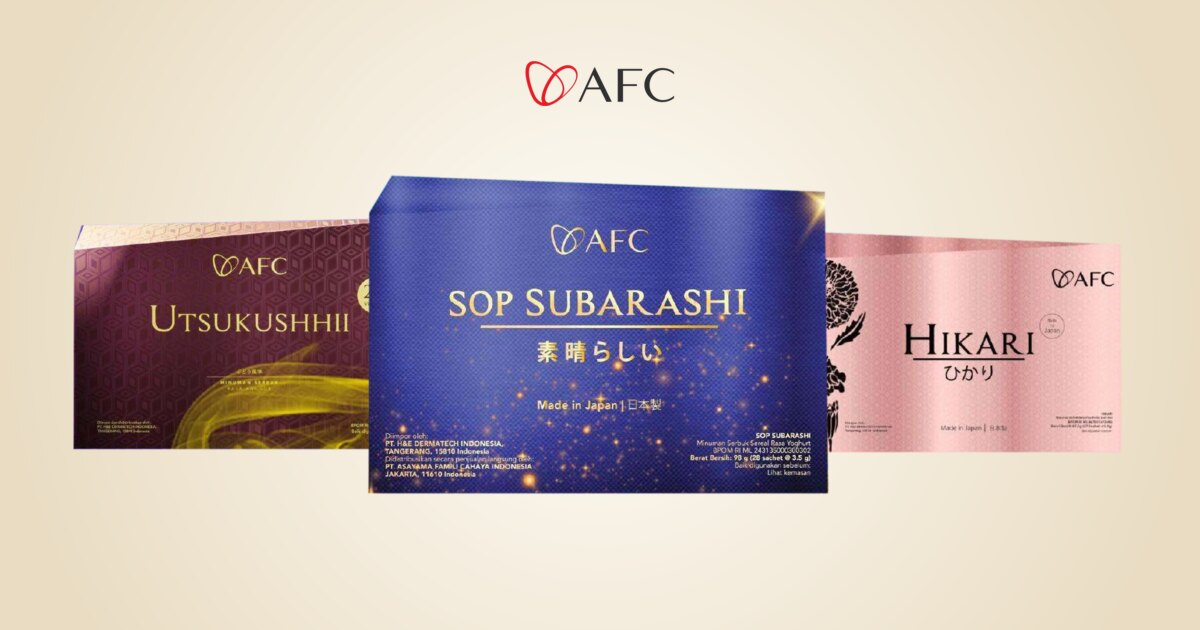
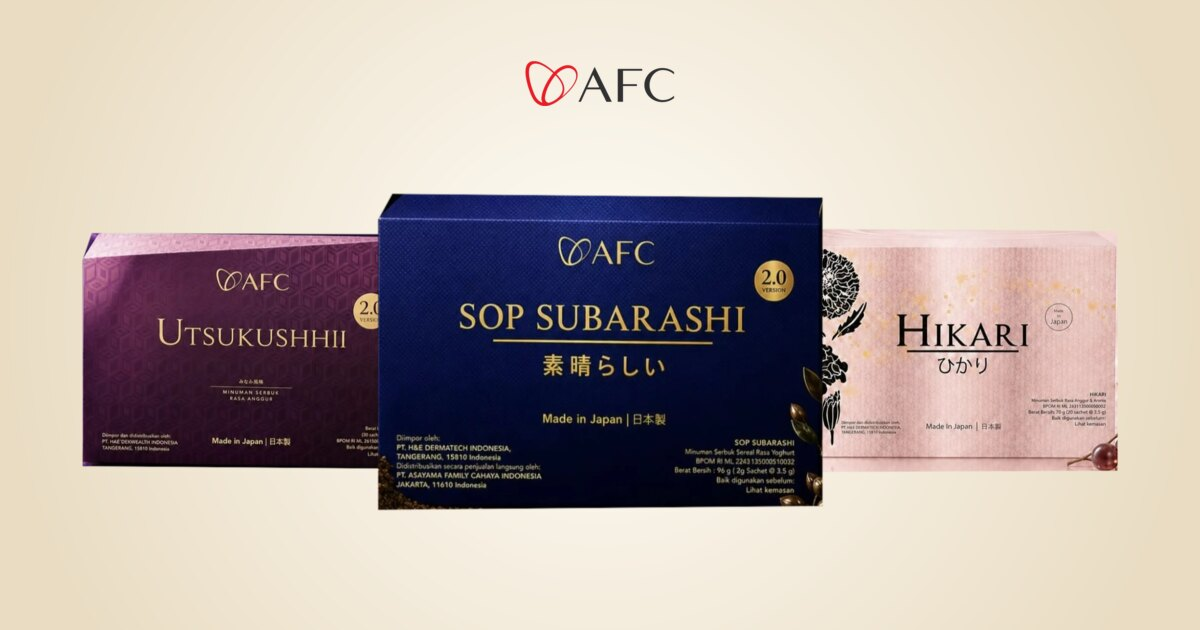
Use sharp packshots from AFC's official announcement images
Hero, product cards, story bands, product pages, recommender and
comparison now show packs cut from the official 'Harga Resmi' renders
(EDSR 2x), replacing the low-resolution packs from the PDF asset pack.

Claude-Session: https://claude.ai/code/session_014NddGPWowXmqgXB4fxXYeP

Changed region(s): [[0.0617, 0.2714, 0.9558, 0.8143]]

diff --git a/data/assets.ts b/data/assets.ts
@@ -18,15 +18,15 @@ export const ASSETS = {
   logo: { src: `${BASE}/brand/afc-logo.png`, width: 1040, height: 320, alt: 'AFC', source: 'AFC-SRC-01' },
 
   products: {
-    subarashiPack: a('products/subarashi/pack', 1340, 940, 'Kemasan SOP Subarashi', 'AFC-SRC-09'),
+    subarashiPack: a('products/subarashi/pack-official', 1410, 1040, 'Kemasan SOP Subarashi 2.0', 'AFC — pengumuman harga resmi'),
     subarashiKeyVisual: a('products/subarashi/key-visual', 1600, 900, 'Key visual SOP Subarashi', 'AFC-SRC-09'),
     subarashiHexa: a('products/subarashi/hexa-peptide', 1600, 900, 'Materi Hexa Peptide SOP Subarashi', 'AFC-SRC-10'),
     subarashiIngredients: a('products/subarashi/ingredients-overview', 1600, 900, 'Ringkasan bahan SOP Subarashi', 'AFC-SRC-11'),
-    utsukushiiPack: a('products/utsukushii/pack', 1240, 820, 'Kemasan Utsukushhii 2.0', 'AFC-SRC-25'),
+    utsukushiiPack: a('products/utsukushii/pack-official', 1280, 940, 'Kemasan Utsukushhii 2.0', 'AFC — pengumuman harga resmi'),
     utsukushiiKeyVisual: a('products/utsukushii/key-visual', 1600, 900, 'Key visual Utsukushhii 2.0', 'AFC-SRC-25'),
     utsukushiiCore: a('products/utsukushii/ingredients-core', 1600, 900, 'Materi Powerful Ingredients Utsukushhii', 'AFC-SRC-26'),
     utsukushiiIngredients: a('products/utsukushii/ingredients-overview', 1600, 900, 'Ringkasan bahan Utsukushhii 2.0 Gold Version', 'AFC-SRC-27'),
-    hikariPack: a('products/hikari/pack', 980, 740, 'Kemasan Hikari', 'AFC-SRC-42'),
+    hikariPack: a('products/hikari/pack-official', 1300, 1040, 'Kemasan Hikari', 'AFC — pengumuman harga resmi'),
     hikariKeyVisual: a('products/hikari/key-visual', 1600, 900, 'Key visual Hikari', 'AFC-SRC-38'),
     hikariPeptides: a('products/hikari/triple-vegan-peptides', 1600, 900, 'Materi Triple Vegan Peptides Hikari', 'AFC-SRC-41'),
     hikariIngredients: a('products/hikari/ingredients-overview', 1600, 900, 'Ringkasan bahan Hikari', 'AFC-SRC-42'),
